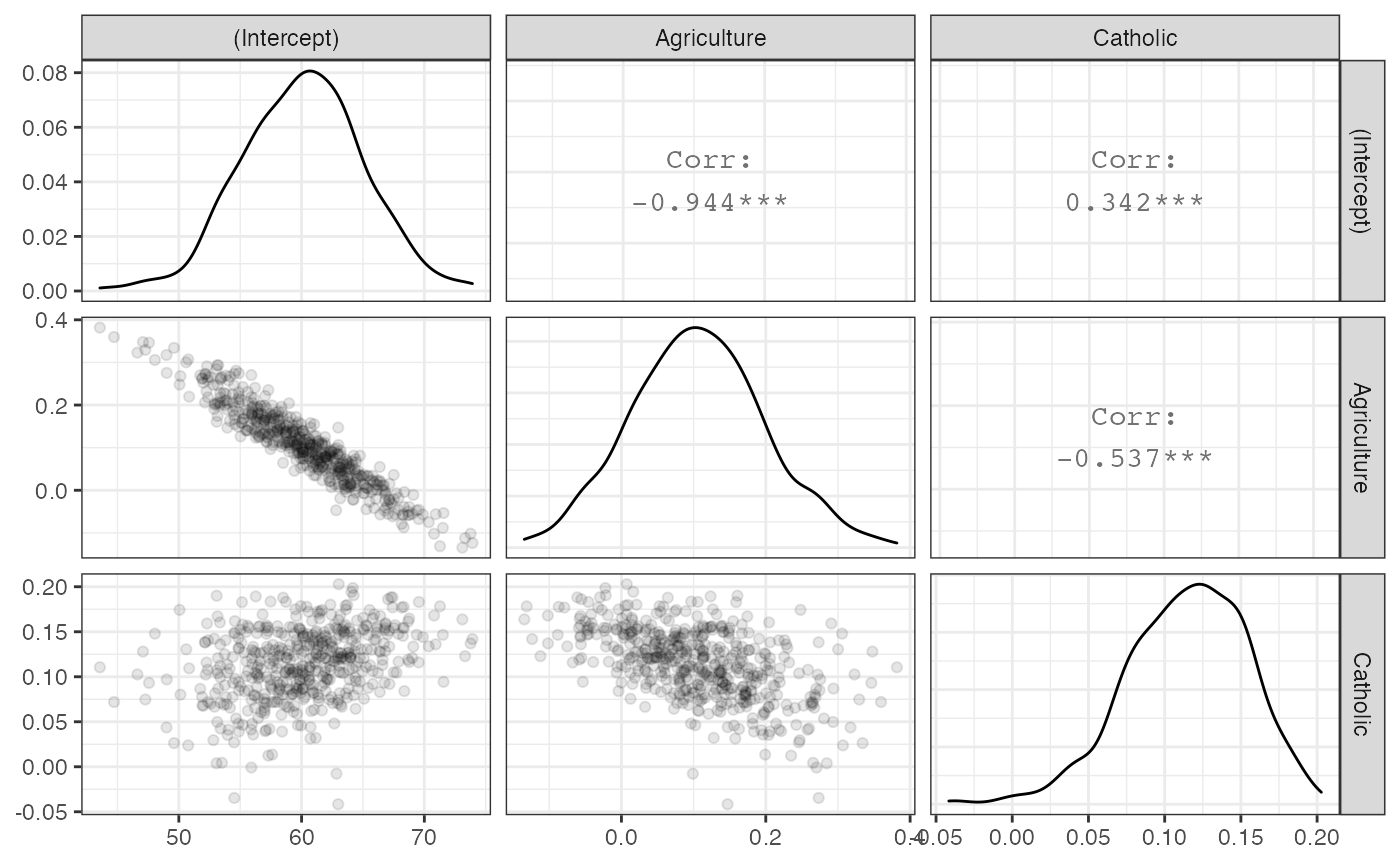
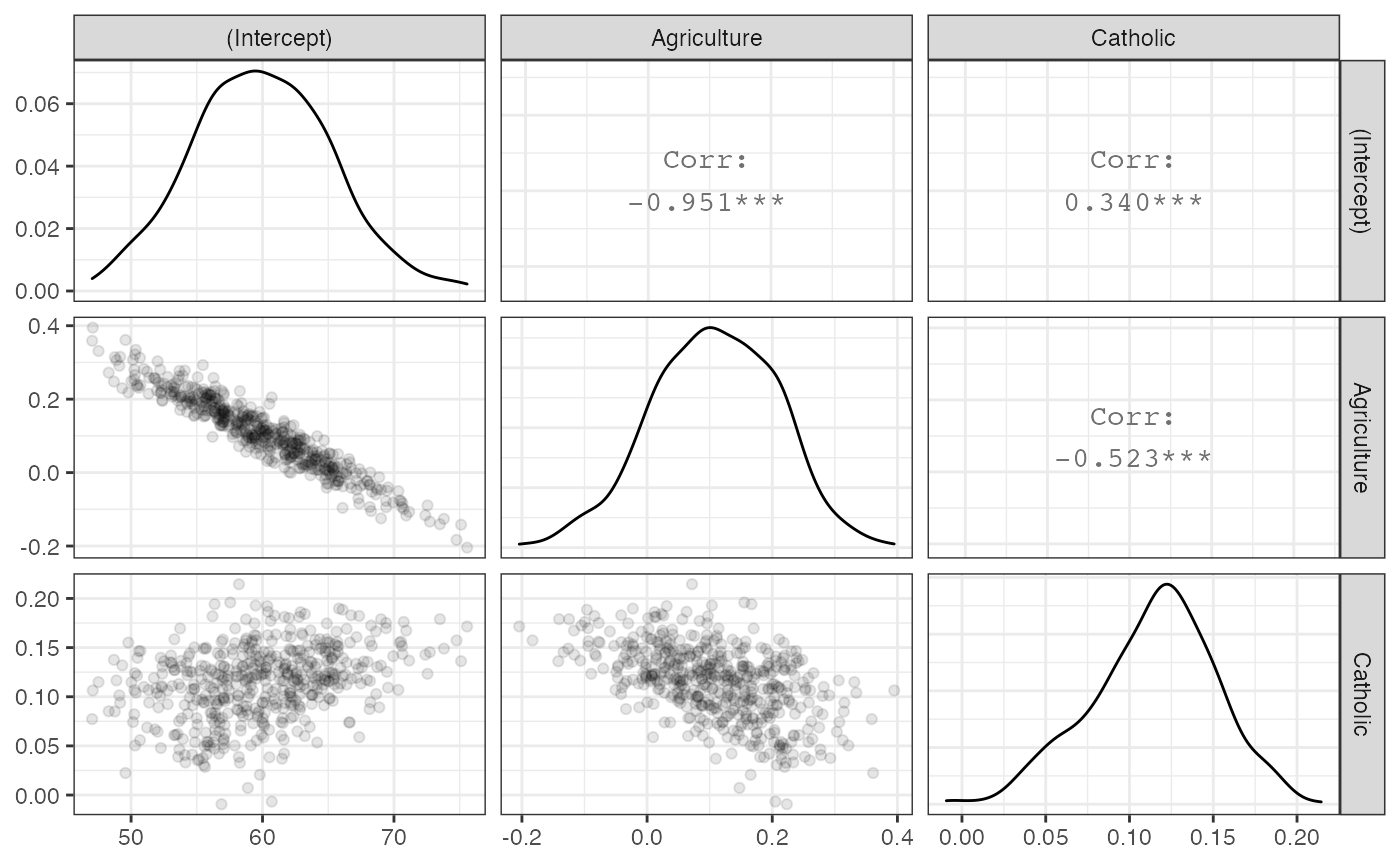
Deploying to gh-pages from  @ 5f8735e298962d34634c9876378ea99cee0b9883 🚀

diff --git a/r/estimatr/reference/estimatr_glancers.html b/r/estimatr/reference/estimatr_glancers.html
@@ -221,34 +221,34 @@ and \(e[i]\) is the ith residual.</p></dd>
 For glance.lh_robust, we glance the lm_robust component only. You can access the linear hypotheses as a data.frame directy from the lh component of the lh_robust object
 
 For glance.iv_robust, a data.frame with columns:
-<dt>r.squared</dt><dd><p>The \(R^2\) of the second stage regression</p></dd>
-<dt>adj.r.squared</dt><dd><p>The \(R^2\) but penalized for having more parameters, <code>rank</code></p></dd>
-<dt>df.residual</dt><dd><p>residual degrees of freedom</p></dd>
-<dt>N</dt><dd><p>the number of observations used</p></dd>
-<dt>se_type</dt><dd><p>the standard error type specified by the user</p></dd>
-<dt>statistic</dt><dd><p>the value of the F-statistic</p></dd>
-<dt>p.value</dt><dd><p>p-value from the F test</p></dd>
-<dt>statistic.weakinst</dt><dd><p>the value of the first stage F-statistic, useful for the weak instruments test; only reported if there is only one endogenous variable</p></dd>
-<dt>p.value.weakinst</dt><dd><p>p-value from the first-stage F test, a test of weak instruments; only reported if there is only one endogenous variable</p></dd>
-<dt>statistic.endogeneity</dt><dd><p>the value of the F-statistic for the test of endogeneity; often called the Wu-Hausman statistic, with robust standard errors, we employ the regression based test</p></dd>
-<dt>p.value.endogeneity</dt><dd><p>p-value from the F-test for endogeneity</p></dd>
-<dt>statistic.overid</dt><dd><p>the value of the chi-squared statistic for the test of instrument correlation with the error term; only reported with overidentification</p></dd>
-<dt>p.value.overid</dt><dd><p>p-value from the chi-squared test; only reported with overidentification</p></dd>
+  <dt>r.squared</dt><dd><p>The \(R^2\) of the second stage regression</p></dd>
+  <dt>adj.r.squared</dt><dd><p>The \(R^2\) but penalized for having more parameters, <code>rank</code></p></dd>
+  <dt>df.residual</dt><dd><p>residual degrees of freedom</p></dd>
+  <dt>N</dt><dd><p>the number of observations used</p></dd>
+  <dt>se_type</dt><dd><p>the standard error type specified by the user</p></dd>
+  <dt>statistic</dt><dd><p>the value of the F-statistic</p></dd>
+  <dt>p.value</dt><dd><p>p-value from the F test</p></dd>
+  <dt>statistic.weakinst</dt><dd><p>the value of the first stage F-statistic, useful for the weak instruments test; only reported if there is only one endogenous variable</p></dd>
+  <dt>p.value.weakinst</dt><dd><p>p-value from the first-stage F test, a test of weak instruments; only reported if there is only one endogenous variable</p></dd>
+  <dt>statistic.endogeneity</dt><dd><p>the value of the F-statistic for the test of endogeneity; often called the Wu-Hausman statistic, with robust standard errors, we employ the regression based test</p></dd>
+  <dt>p.value.endogeneity</dt><dd><p>p-value from the F-test for endogeneity</p></dd>
+  <dt>statistic.overid</dt><dd><p>the value of the chi-squared statistic for the test of instrument correlation with the error term; only reported with overidentification</p></dd>
+  <dt>p.value.overid</dt><dd><p>p-value from the chi-squared test; only reported with overidentification</p></dd>
 
 For glance.difference_in_means, a data.frame with columns:
-<dt>design</dt><dd><p>the design used, and therefore the estimator used</p></dd>
-<dt>df</dt><dd><p>the degrees of freedom</p></dd>
-<dt>nobs</dt><dd><p>the number of observations used</p></dd>
-<dt>nblocks</dt><dd><p>the number of blocks, if used</p></dd>
-<dt>nclusters</dt><dd><p>the number of clusters, if used</p></dd>
-<dt>condition2</dt><dd><p>the second, "treatment", condition</p></dd>
-<dt>condition1</dt><dd><p>the first, "control", condition</p></dd>
+  <dt>design</dt><dd><p>the design used, and therefore the estimator used</p></dd>
+  <dt>df</dt><dd><p>the degrees of freedom</p></dd>
+  <dt>nobs</dt><dd><p>the number of observations used</p></dd>
+  <dt>nblocks</dt><dd><p>the number of blocks, if used</p></dd>
+  <dt>nclusters</dt><dd><p>the number of clusters, if used</p></dd>
+  <dt>condition2</dt><dd><p>the second, "treatment", condition</p></dd>
+  <dt>condition1</dt><dd><p>the first, "control", condition</p></dd>
 
 For glance.horvitz_thompson, a data.frame with columns:
-<dt>nobs</dt><dd><p>the number of observations used</p></dd>
-<dt>se_type</dt><dd><p>the type of standard error estimator used</p></dd>
-<dt>condition2</dt><dd><p>the second, "treatment", condition</p></dd>
-<dt>condition1</dt><dd><p>the first, "control", condition</p></dd>
+  <dt>nobs</dt><dd><p>the number of observations used</p></dd>
+  <dt>se_type</dt><dd><p>the type of standard error estimator used</p></dd>
+  <dt>condition2</dt><dd><p>the second, "treatment", condition</p></dd>
+  <dt>condition1</dt><dd><p>the first, "control", condition</p></dd>
 
     <h2 class="hasAnchor" id="see-also"><a class="anchor" href="#see-also"></a>See also</h2>
 

diff --git a/r/estimatr/articles/estimatr-in-the-tidyverse.html b/r/estimatr/articles/estimatr-in-the-tidyverse.html
@@ -271,72 +271,72 @@
 <tr class="odd">
 <td align="left">1</td>
 <td align="left">(Intercept)</td>
-<td align="right">59.6824759</td>
-<td align="right">4.8751964</td>
-<td align="right">12.2420660</td>
+<td align="right">63.2178708</td>
+<td align="right">5.1048385</td>
+<td align="right">12.3839120</td>
 <td align="right">0.0000000</td>
-<td align="right">49.8571632</td>
-<td align="right">69.5077886</td>
+<td align="right">52.9297447</td>
+<td align="right">73.5059968</td>
 <td align="right">44</td>
 <td align="left">Fertility</td>
 </tr>
 <tr class="even">
 <td align="left">1</td>
 <td align="left">Catholic</td>
-<td align="right">0.1026694</td>
-<td align="right">0.0308928</td>
-<td align="right">3.3234103</td>
-<td align="right">0.0017980</td>
-<td align="right">0.0404091</td>
-<td align="right">0.1649296</td>
+<td align="right">0.0600405</td>
+<td align="right">0.0658169</td>
+<td align="right">0.9122356</td>
+<td align="right">0.3666160</td>
+<td align="right">-0.0726047</td>
+<td align="right">0.1926857</td>
 <td align="right">44</td>
 <td align="left">Fertility</td>
 </tr>
 <tr class="odd">
 <td align="left">1</td>
 <td align="left">Agriculture</td>
-<td align="right">0.1149296</td>
-<td align="right">0.0854316</td>
-<td align="right">1.3452819</td>
-<td align="right">0.1854269</td>
-<td align="right">-0.0572465</td>
-<td align="right">0.2871057</td>
+<td align="right">0.0655433</td>
+<td align="right">0.0938988</td>
+<td align="right">0.6980203</td>
+<td align="right">0.4888371</td>
+<td align="right">-0.1236973</td>
+<td align="right">0.2547838</td>
 <td align="right">44</td>
 <td align="left">Fertility</td>
 </tr>
 <tr class="even">
 <td align="left">2</td>
 <td align="left">(Intercept)</td>
-<td align="right">60.0948674</td>
-<td align="right">4.7915568</td>
-<td align="right">12.5418250</td>
+<td align="right">51.8850737</td>
+<td align="right">6.1329128</td>
+<td align="right">8.4601029</td>
 <td align="right">0.0000000</td>
-<td align="right">50.4381191</td>
-<td align="right">69.7516157</td>
+<td align="right">39.5250000</td>
+<td align="right">64.2451474</td>
 <td align="right">44</td>
 <td align="left">Fertility</td>
 </tr>
 <tr class="odd">
 <td align="left">2</td>
 <td align="left">Catholic</td>
-<td align="right">0.1433854</td>
-<td align="right">0.0374162</td>
-<td align="right">3.8321791</td>
-<td align="right">0.0003999</td>
-<td align="right">0.0679781</td>
-<td align="right">0.2187927</td>
+<td align="right">0.1086218</td>
+<td align="right">0.0341978</td>
+<td align="right">3.1762796</td>
+<td align="right">0.0027260</td>
+<td align="right">0.0397006</td>
+<td align="right">0.1775429</td>
 <td align="right">44</td>
 <td align="left">Fertility</td>
 </tr>
 <tr class="even">
 <td align="left">2</td>
 <td align="left">Agriculture</td>
-<td align="right">0.0811728</td>
-<td align="right">0.0953774</td>
-<td align="right">0.8510696</td>
-<td align="right">0.3993388</td>
-<td align="right">-0.1110477</td>
-<td align="right">0.2733932</td>
+<td align="right">0.2532634</td>
+<td align="right">0.1006331</td>
+<td align="right">2.5167001</td>
+<td align="right">0.0155654</td>
+<td align="right">0.0504507</td>
+<td align="right">0.4560761</td>
 <td align="right">44</td>
 <td align="left">Fertility</td>
 </tr>
@@ -349,10 +349,10 @@
   <span class="fu">summarise</span><span class="op">(</span>boot_se <span class="op">=</span> <span class="fu"><a href="https://rdrr.io/r/stats/sd.html">sd</a></span><span class="op">(</span><span class="va">estimate</span><span class="op">)</span><span class="op">)</span></code></pre></div>
 <pre><code>## # A tibble: 3 x 2
 ##   term        boot_se
-##   &lt;chr&gt;         &lt;dbl&gt;
-## 1 (Intercept)  4.90  
-## 2 Agriculture  0.0920
-## 3 Catholic     0.0394</code></pre>
+## * &lt;chr&gt;         &lt;dbl&gt;
+## 1 (Intercept)  5.25  
+## 2 Agriculture  0.0997
+## 3 Catholic     0.0370</code></pre>
 <div class="sourceCode" id="cb15"><pre class="downlit sourceCode r">
 <code class="sourceCode R"><span class="co"># To visualize the sampling distribution</span>
 

diff --git a/r/estimatr/reference/lm_robust.html b/r/estimatr/reference/lm_robust.html
@@ -341,11 +341,14 @@ observations into the estimation that have no missingness on any outcome.</p>
 
     <p>Abadie, Alberto, Susan Athey, Guido W Imbens, and Jeffrey Wooldridge. 2017. "A Class of Unbiased Estimators of the Average Treatment Effect in Randomized Experiments." arXiv Pre-Print. <a href='https://arxiv.org/abs/1710.02926v2'>https://arxiv.org/abs/1710.02926v2</a>.</p>
 <p>Bell, Robert M, and Daniel F McCaffrey. 2002. "Bias Reduction in Standard Errors for Linear Regression with Multi-Stage Samples." Survey Methodology 28 (2): 169-82.</p>
-<p>Gaure, Simon. 2013. "OLS with multiple high dimensional category variables." Computational Statistics \&amp; Data Analysis 66: 8-1. <a href='https://doi.org/10.1016/j.csda.2013.03.024'>https://doi.org/10.1016/j.csda.2013.03.024</a></p>
+<p>Gaure, Simon. 2013. "OLS with multiple high dimensional category variables." Computational Statistics \&amp; Data Analysis 66: 8-1. doi: <a href='https://doi.org/10.1016/j.csda.2013.03.024'>10.1016/j.csda.2013.03.024</a></p>
 <p>Halperin, I. 1962. "The product of projection operators." Acta Scientiarum Mathematicarum (Szeged) 23(1-2): 96-99.</p>
-<p>MacKinnon, James, and Halbert White. 1985. "Some Heteroskedasticity-Consistent Covariance Matrix Estimators with Improved Finite Sample Properties." Journal of Econometrics 29 (3): 305-25. <a href='https://doi.org/10.1016/0304-4076(85)90158-7'>https://doi.org/10.1016/0304-4076(85)90158-7</a>.</p>
-<p>Pustejovsky, James E, and Elizabeth Tipton. 2016. "Small Sample Methods for Cluster-Robust Variance Estimation and Hypothesis Testing in Fixed Effects Models." Journal of Business &amp; Economic Statistics. Taylor &amp; Francis. <a href='https://doi.org/10.1080/07350015.2016.1247004'>https://doi.org/10.1080/07350015.2016.1247004</a>.</p>
-<p>Samii, Cyrus, and Peter M Aronow. 2012. "On Equivalencies Between Design-Based and Regression-Based Variance Estimators for Randomized Experiments." Statistics and Probability Letters 82 (2). <a href='https://doi.org/10.1016/j.spl.2011.10.024'>https://doi.org/10.1016/j.spl.2011.10.024</a>.</p>
+<p>MacKinnon, James, and Halbert White. 1985. "Some Heteroskedasticity-Consistent Covariance Matrix Estimators with Improved Finite Sample Properties." Journal of Econometrics 29 (3): 305-25. doi: <a href='https://doi.org/10.1016/0304-4076(85)90158-7'>10.1016/0304-4076(85)90158-7</a>
+.</p>
+<p>Pustejovsky, James E, and Elizabeth Tipton. 2016. "Small Sample Methods for Cluster-Robust Variance Estimation and Hypothesis Testing in Fixed Effects Models." Journal of Business &amp; Economic Statistics. Taylor &amp; Francis. doi: <a href='https://doi.org/10.1080/07350015.2016.1247004'>10.1080/07350015.2016.1247004</a>
+.</p>
+<p>Samii, Cyrus, and Peter M Aronow. 2012. "On Equivalencies Between Design-Based and Regression-Based Variance Estimators for Randomized Experiments." Statistics and Probability Letters 82 (2). doi: <a href='https://doi.org/10.1016/j.spl.2011.10.024'>10.1016/j.spl.2011.10.024</a>
+.</p>
 
     <h2 class="hasAnchor" id="examples"><a class="anchor" href="#examples"></a>Examples</h2>
     <pre class="examples"><div class='input'><span class='kw'><a href='https://rdrr.io/r/base/library.html'>library</a></span><span class='op'>(</span><span class='va'><a href='https://declaredesign.org/r/fabricatr'>fabricatr</a></span><span class='op'>)</span>

diff --git a/r/estimatr/articles/absorbing-fixed-effects.html b/r/estimatr/articles/absorbing-fixed-effects.html
@@ -191,9 +191,9 @@
 <span class="op">)</span></code></pre></div>
 <pre><code>## Unit: milliseconds
 ##             expr       min        lq      mean    median        uq      max
-##  base + sandwich 170.76549 174.81754 186.39584 177.14988 181.68758 297.1494
-##        lm_robust  77.31992  80.57013  85.80510  81.99891  84.59438 211.7543
-##  lm_robust + fes  48.83585  50.44723  56.90737  51.19297  53.17806 183.5784
+##  base + sandwich 171.49046 174.37038 187.34572 177.16684 185.65503 311.1475
+##        lm_robust  76.42863  79.46321  87.33736  82.60366  86.89245 225.1954
+##  lm_robust + fes  47.28481  48.92780  54.31959  50.15889  51.89353 188.3292
 ##  neval cld
 ##     50   c
 ##     50  b 
@@ -220,14 +220,14 @@
   times <span class="op">=</span> <span class="fl">50</span>
 <span class="op">)</span></code></pre></div>
 <pre><code>## Unit: milliseconds
-##             expr        min        lq      mean     median         uq       max
-##  base + sandwich 171.249979 174.46250 183.53116 176.895930 179.092274 298.60400
-##        lm_robust  61.391403  64.00264  65.98334  65.654396  67.984969  74.25632
-##  lm_robust + fes   7.515233   8.08476  11.93974   8.662523   9.819555 139.99482
-##  neval cld
-##     50   c
-##     50  b 
-##     50 a</code></pre>
+##             expr        min         lq       mean     median         uq
+##  base + sandwich 167.956007 176.046142 192.525694 180.264694 186.778956
+##        lm_robust  58.881616  62.519202  70.119124  65.018257  67.616229
+##  lm_robust + fes   7.409523   8.104038   9.380505   8.596548   9.316276
+##        max neval cld
+##  338.63262    50   c
+##  246.24067    50  b 
+##   26.43253    50 a</code></pre>
 </div>
   </div>
 

diff --git a/r/estimatr/reference/lm_lin.html b/r/estimatr/reference/lm_lin.html
@@ -315,8 +315,10 @@ and the
 
     <div class='dont-index'><p><code><a href='lm_robust.html'>lm_robust</a></code></p>
 <p>#' @references
-Freedman, David A. 2008. "On Regression Adjustments in Experiments with Several Treatments." The Annals of Applied Statistics. JSTOR, 176-96. <a href='https://doi.org/10.1214/07-AOAS143'>https://doi.org/10.1214/07-AOAS143</a>.</p>
-<p>Lin, Winston. 2013. "Agnostic Notes on Regression Adjustments to Experimental Data: Reexamining Freedman's Critique." The Annals of Applied Statistics 7 (1). Institute of Mathematical Statistics: 295-318. <a href='https://doi.org/10.1214/12-AOAS583'>https://doi.org/10.1214/12-AOAS583</a>.</p></div>
+Freedman, David A. 2008. "On Regression Adjustments in Experiments with Several Treatments." The Annals of Applied Statistics. JSTOR, 176-96. doi: <a href='https://doi.org/10.1214/07-AOAS143'>10.1214/07-AOAS143</a>
+.</p>
+<p>Lin, Winston. 2013. "Agnostic Notes on Regression Adjustments to Experimental Data: Reexamining Freedman's Critique." The Annals of Applied Statistics 7 (1). Institute of Mathematical Statistics: 295-318. doi: <a href='https://doi.org/10.1214/12-AOAS583'>10.1214/12-AOAS583</a>
+.</p></div>
 
     <h2 class="hasAnchor" id="examples"><a class="anchor" href="#examples"></a>Examples</h2>
     <pre class="examples"><div class='input'><span class='kw'><a href='https://rdrr.io/r/base/library.html'>library</a></span><span class='op'>(</span><span class='va'><a href='https://declaredesign.org/r/fabricatr'>fabricatr</a></span><span class='op'>)</span>

diff --git a/r/estimatr/reference/horvitz_thompson.html b/r/estimatr/reference/horvitz_thompson.html
@@ -376,7 +376,8 @@ only use this option if they are certain they know what they are doing.</p>
 
     <p>Aronow, Peter M, and Joel A Middleton. 2013. "A Class of Unbiased Estimators of the Average Treatment Effect in Randomized Experiments." Journal of Causal Inference 1 (1): 135-54. <a href='http://citeseerx.ist.psu.edu/viewdoc/download?doi=10.1.1.712.5830&amp;rep=rep1&amp;type=pdf'>http://citeseerx.ist.psu.edu/viewdoc/download?doi=10.1.1.712.5830&amp;rep=rep1&amp;type=pdf</a>.</p>
 <p>Aronow, Peter M, and Cyrus Samii. 2017. "Estimating Average Causal Effects Under Interference Between Units." Annals of Applied Statistics, forthcoming. <a href='https://arxiv.org/abs/1305.6156v3'>https://arxiv.org/abs/1305.6156v3</a>.</p>
-<p>Middleton, Joel A, and Peter M Aronow. 2015. "Unbiased Estimation of the Average Treatment Effect in Cluster-Randomized Experiments." Statistics, Politics and Policy 6 (1-2): 39-75. <a href='https://doi.org/10.1515/spp-2013-0002'>https://doi.org/10.1515/spp-2013-0002</a>.</p>
+<p>Middleton, Joel A, and Peter M Aronow. 2015. "Unbiased Estimation of the Average Treatment Effect in Cluster-Randomized Experiments." Statistics, Politics and Policy 6 (1-2): 39-75. doi: <a href='https://doi.org/10.1515/spp-2013-0002'>10.1515/spp-2013-0002</a>
+.</p>
     <h2 class="hasAnchor" id="see-also"><a class="anchor" href="#see-also"></a>See also</h2>
 
     <div class='dont-index'><p><code><a href='https://declaredesign.org/r/randomizr/reference/declare_ra.html'>declare_ra</a></code></p></div>

diff --git a/r/estimatr/reference/starprep.html b/r/estimatr/reference/starprep.html
@@ -239,7 +239,7 @@ the preferred, robust statistics.</p>
           omit.stat <span class='op'>=</span> <span class='st'>"f"</span><span class='op'>)</span>
 </div><div class='output co'>#&gt; 
 #&gt; % Table created by stargazer v.5.2.2 by Marek Hlavac, Harvard University. E-mail: hlavac at fas.harvard.edu
-#&gt; % Date and time: Wed, Jan 13, 2021 - 23:53:53
+#&gt; % Date and time: Mon, Jan 18, 2021 - 23:49:26
 #&gt; \begin{table}[!htbp] \centering 
 #&gt;   \caption{} 
 #&gt;   \label{} 
@@ -279,7 +279,7 @@ the preferred, robust statistics.</p>
           omit.stat <span class='op'>=</span> <span class='st'>"f"</span><span class='op'>)</span>
 </div><div class='output co'>#&gt; 
 #&gt; % Table created by stargazer v.5.2.2 by Marek Hlavac, Harvard University. E-mail: hlavac at fas.harvard.edu
-#&gt; % Date and time: Wed, Jan 13, 2021 - 23:53:53
+#&gt; % Date and time: Mon, Jan 18, 2021 - 23:49:26
 #&gt; \begin{table}[!htbp] \centering 
 #&gt;   \caption{} 
 #&gt;   \label{} 
@@ -316,7 +316,7 @@ the preferred, robust statistics.</p>
           omit.stat <span class='op'>=</span> <span class='st'>"f"</span><span class='op'>)</span>
 </div><div class='output co'>#&gt; 
 #&gt; % Table created by stargazer v.5.2.2 by Marek Hlavac, Harvard University. E-mail: hlavac at fas.harvard.edu
-#&gt; % Date and time: Wed, Jan 13, 2021 - 23:53:53
+#&gt; % Date and time: Mon, Jan 18, 2021 - 23:49:26
 #&gt; \begin{table}[!htbp] \centering 
 #&gt;   \caption{} 
 #&gt;   \label{} 

diff --git a/r/estimatr/reference/difference_in_means.html b/r/estimatr/reference/difference_in_means.html
@@ -309,7 +309,8 @@ More details of the about each of the estimators can be found in the
     <h2 class="hasAnchor" id="references"><a class="anchor" href="#references"></a>References</h2>
 
     <p>Gerber, Alan S, and Donald P Green. 2012. Field Experiments: Design, Analysis, and Interpretation. New York: W.W. Norton.</p>
-<p>Imai, Kosuke, Gary King, Clayton Nall. 2009. "The Essential Role of Pair Matching in Cluster-Randomized Experiments, with Application to the Mexican Universal Health Insurance Evaluation." Statistical Science 24 (1). Institute of Mathematical Statistics: 29-53. <a href='https://doi.org/10.1214/08-STS274'>https://doi.org/10.1214/08-STS274</a>.</p>
+<p>Imai, Kosuke, Gary King, Clayton Nall. 2009. "The Essential Role of Pair Matching in Cluster-Randomized Experiments, with Application to the Mexican Universal Health Insurance Evaluation." Statistical Science 24 (1). Institute of Mathematical Statistics: 29-53. doi: <a href='https://doi.org/10.1214/08-STS274'>10.1214/08-STS274</a>
+.</p>
     <h2 class="hasAnchor" id="see-also"><a class="anchor" href="#see-also"></a>See also</h2>
 
     <div class='dont-index'><p><code><a href='lm_lin.html'>lm_lin</a></code></p></div>

diff --git a/r/estimatr/reference/iv_robust.html b/r/estimatr/reference/iv_robust.html
@@ -345,7 +345,7 @@ standard errors. This test is only reported if the model is overidentified (i.e.
 instruments is greater than the number of endogenous regressors), and if no weights are specified.</p>
     <h2 class="hasAnchor" id="references"><a class="anchor" href="#references"></a>References</h2>
 
-    <p>Gaure, Simon. 2013. "OLS with multiple high dimensional category variables." Computational Statistics &amp; Data Analysis 66: 8-1. <a href='https://doi.org/10.1016/j.csda.2013.03.024'>https://doi.org/10.1016/j.csda.2013.03.024</a></p>
+    <p>Gaure, Simon. 2013. "OLS with multiple high dimensional category variables." Computational Statistics &amp; Data Analysis 66: 8-1. doi: <a href='https://doi.org/10.1016/j.csda.2013.03.024'>10.1016/j.csda.2013.03.024</a></p>
 <p>Halperin, I. 1962. "The product of projection operators." Acta Scientiarum Mathematicarum (Szeged) 23(1-2): 96-99.</p>
 
     <h2 class="hasAnchor" id="examples"><a class="anchor" href="#examples"></a>Examples</h2>

diff --git a/r/estimatr/articles/regression-tables.html b/r/estimatr/articles/regression-tables.html
@@ -258,7 +258,7 @@
 <span class="va">fit</span> <span class="op">&lt;-</span> <span class="fu"><a href="../reference/lm_robust.html">lm_robust</a></span><span class="op">(</span><span class="va">mpg</span> <span class="op">~</span> <span class="va">disp</span>, data <span class="op">=</span> <span class="va">mtcars</span><span class="op">)</span>
 <span class="va">fit</span> <span class="op">%&gt;%</span> <span class="va">tidy</span> <span class="op">%&gt;%</span> <span class="fu"><a href="https://rdrr.io/pkg/xtable/man/xtable.html">xtable</a></span><span class="op">(</span><span class="op">)</span></code></pre></div>
 <pre><code>## % latex table generated in R 4.0.3 by xtable 1.8-4 package
-## % Wed Jan 13 23:54:57 2021
+## % Mon Jan 18 23:50:31 2021
 ## \begin{table}[ht]
 ## \centering
 ## \begin{tabular}{rlrrrrrrrl}

diff --git a/r/estimatr/news/index.html b/r/estimatr/news/index.html
@@ -170,6 +170,14 @@
       <small>Source: <a href='https://github.com/DeclareDesign/estimatr/blob/master/NEWS.md'><code>NEWS.md</code></a></small>
     </div>
 
+    <div id="estimatr-0300" class="section level1">
+<h1 class="page-header" data-toc-text="0.30.0">
+<a href="#estimatr-0300" class="anchor"></a>estimatr 0.30.0<small> 2021-01-07 </small>
+</h1>
+<ul>
+<li>Test suite changes (skip if not installed for checking against other packages)</li>
+</ul>
+</div>
     <div id="estimatr-0280" class="section level1">
 <h1 class="page-header" data-toc-text="0.28.0">
 <a href="#estimatr-0280" class="anchor"></a>estimatr 0.28.0<small> 2020-11-19 </small>
